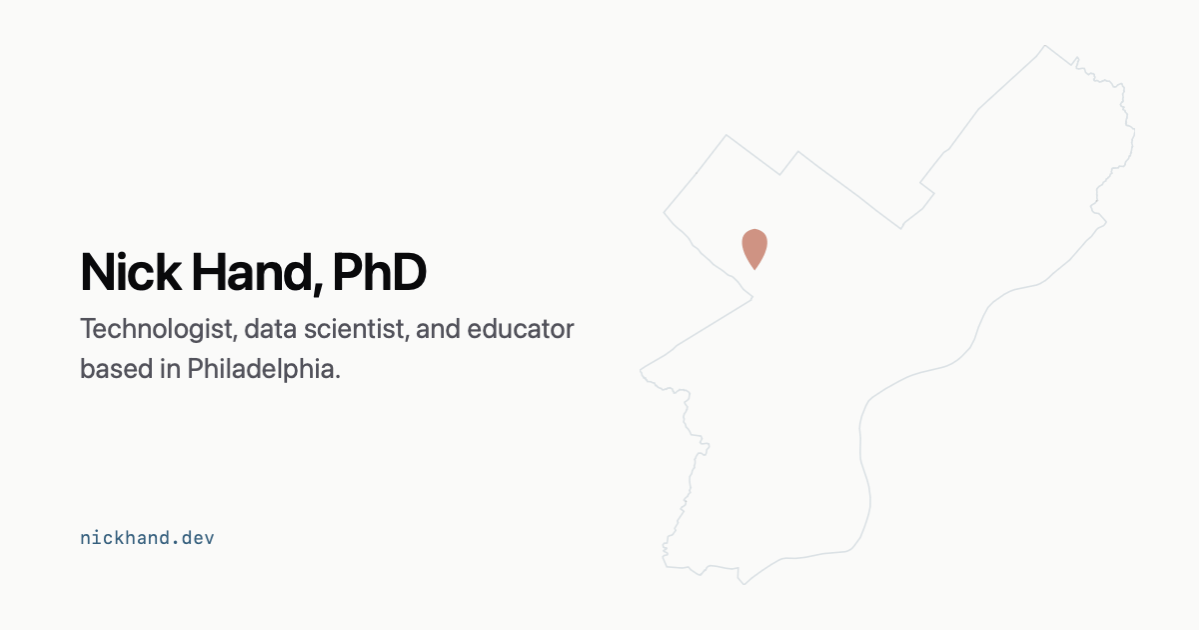
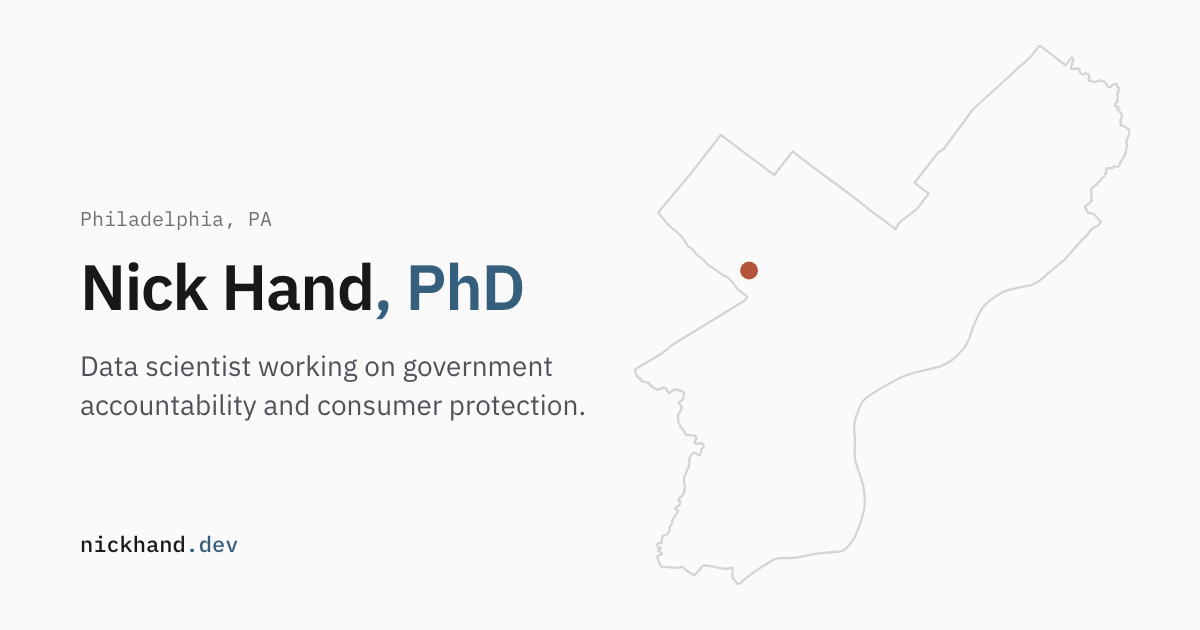
Regenerate social image with current framing
Render og-image.png from HTML with headless Chrome so it can be rebuilt when
the copy changes. Replace the old "technologist, data scientist, educator"
tagline and update the image alt text to match.

diff --git a/index.html b/index.html
@@ -21,14 +21,14 @@
     <meta property="og:image" content="https://www.nickhand.dev/og-image.png" />
     <meta property="og:image:width" content="1200" />
     <meta property="og:image:height" content="630" />
-    <meta property="og:image:alt" content="Nick Hand, PhD — technologist, data scientist, educator based in Philadelphia." />
+    <meta property="og:image:alt" content="Nick Hand, PhD — data scientist working on government accountability and consumer protection, Philadelphia, PA." />
 
     <!-- Twitter / X -->
     <meta name="twitter:card" content="summary_large_image" />
     <meta name="twitter:title" content="Nick Hand, PhD | Data Science, Accountability &amp; Consumer Protection" />
     <meta name="twitter:description" content="Nick Hand is a Philadelphia data scientist working on government accountability and consumer protection at the Delaware Attorney General’s Office. Through Wissahickon Analytics, he builds budget dashboards and data tools for public agencies and publications." />
     <meta name="twitter:image" content="https://www.nickhand.dev/og-image.png" />
-    <meta name="twitter:image:alt" content="Nick Hand, PhD — technologist, data scientist, educator based in Philadelphia." />
+    <meta name="twitter:image:alt" content="Nick Hand, PhD — data scientist working on government accountability and consumer protection, Philadelphia, PA." />
 
     <!-- Structured data describes the people, practice, and service visible on this page. -->
     <script type="application/ld+json">

diff --git a/README.md b/README.md
@@ -39,6 +39,18 @@ There is no separate AI-only content or crawler-specific page. Search Console an
 Bing Webmaster Tools ownership, sitemap submission, and indexing status are
 account-side checks; an accessible page does not itself prove indexing or AI citation.
 
+## Social image
+
+`public/og-image.png` is rendered from HTML with headless Chrome. Edit the tagline
+in `scripts/build_og_image.mjs` when the site's framing changes, then run:
+
+```bash
+node scripts/build_og_image.mjs
+```
+
+Pass `--chrome /path/to/chrome` if Chrome is not in `/Applications`. Update
+`og:image:alt` and `twitter:image:alt` in `index.html` to match the image text.
+
 ## Resume
 
 Edit `resume/resume.json`, then regenerate the downloadable PDF:
